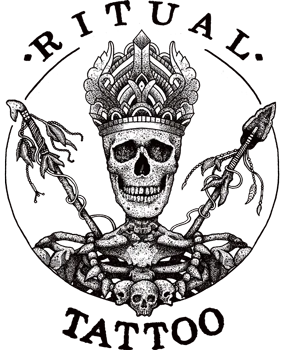
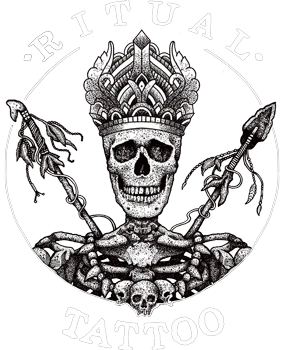
feat(hero): Ritual sticker text turns black as it crosses onto the white

diff --git a/src/components/HeroStickers.tsx b/src/components/HeroStickers.tsx
@@ -7,7 +7,8 @@ import { FILL, type Img } from "./cart";
 // position as % of the hero). wideOnly hides it on phones; lineArt swaps the
 // hard offset shadow, which doubles thin black lines, for a soft one. The
 // hero's bottom padding is a band reserved for the stickers pinned there (see
-// .c-hero).
+// .c-hero). onWhite is a second version of the art shown wherever the sticker
+// is below the pink/white seam, switching line by line as it crosses.
 export const STICKERS: {
   src: string;
   ratio: number;
@@ -17,9 +18,10 @@ export const STICKERS: {
   photo?: boolean;
   wideOnly?: boolean;
   lineArt?: boolean;
+  onWhite?: string;
 }[] = [
   { src: "/stickers/betty.webp", ratio: 271 / 231, width: "clamp(70px, 12vw, 130px)", pos: { left: "5%", top: "16%" }, rotate: -12 },
-  { src: "/stickers/ritual.webp", ratio: 282 / 350, width: "clamp(72px, 11vw, 135px)", pos: { right: "4%", top: "16%" }, rotate: 8, lineArt: true },
+  { src: "/stickers/ritual.webp", ratio: 282 / 350, width: "clamp(72px, 11vw, 135px)", pos: { right: "4%", top: "16%" }, rotate: 8, lineArt: true, onWhite: "/stickers/ritual-on-white.webp" },
   { src: "/stickers/devil-betty.webp", ratio: 860 / 783, width: "clamp(80px, 13vw, 150px)", pos: { right: "20%", bottom: "24px" }, rotate: 10 },
   { src: "/stickers/lips.webp", ratio: 1, width: "clamp(70px, 11vw, 130px)", pos: { left: "22%", bottom: "24px" }, rotate: -8 },
 ];
@@ -30,13 +32,40 @@ const drag = {
   dragTransition: { bounceStiffness: 300, bounceDamping: 20 },
 } as const;
 
-/** `imgs` holds the optimized image for each STICKERS entry, in order. */
-export default function HeroStickers({ imgs }: { imgs: Img[] }) {
+const IMG = { alt: "", sizes: "150px", loading: "lazy", decoding: "async", draggable: false, style: { ...FILL, pointerEvents: "none" } } as const;
+
+// Clips the art to the part of the sticker above the seam and the onWhite art
+// to the part below. The seam is horizontal on the page; the sticker is
+// rotated (and scaled while dragged) about its centre, so the cut is that line
+// mapped into the sticker's own box.
+function clipAtSeam(el: HTMLElement, rotate: number) {
+  const seamEl = document.querySelector(".c-logo-wrap");
+  const [top, bottom] = el.querySelectorAll("img");
+  if (!seamEl || !bottom) return;
+  const w = el.offsetWidth, h = el.offsetHeight, t = (rotate * Math.PI) / 180;
+  const r = el.getBoundingClientRect();
+  const scale = r.height / (w * Math.abs(Math.sin(t)) + h * Math.cos(t));
+  const s = seamEl.getBoundingClientRect();
+  const seam = (s.bottom - s.height * 0.28 - (r.top + r.height / 2)) / scale; // .c-logo-wrap::before ends 28% up
+  const at = (x: number) => h / 2 + (seam - (x - w / 2) * Math.sin(t)) / Math.cos(t);
+  const line = `0 ${at(0)}px, ${w}px ${at(w)}px`;
+  top.style.clipPath = `polygon(${line}, ${w}px -1e4px, 0 -1e4px)`;
+  bottom.style.clipPath = `polygon(${line}, ${w}px 1e4px, 0 1e4px)`;
+}
+
+/** `imgs` holds the optimized image (and onWhite image) for each STICKERS entry, in order. */
+export default function HeroStickers({ imgs }: { imgs: (Img & { onWhite?: Img })[] }) {
   // Stickers stay inside the hero, which is static markup around this island.
   const anchor = useRef<HTMLSpanElement>(null);
   const heroRef = useRef<HTMLElement | null>(null);
+  const seamed = useRef<Map<HTMLElement, number>>(new Map());
   useLayoutEffect(() => {
     heroRef.current = anchor.current?.closest(".c-hero") ?? null;
+    const update = () => seamed.current.forEach((rotate, el) => clipAtSeam(el, rotate));
+    update();
+    const ro = new ResizeObserver(update); // viewport and logo size both move the seam
+    ro.observe(heroRef.current!);
+    return () => ro.disconnect();
   }, []);
 
   return (
@@ -51,8 +80,13 @@ export default function HeroStickers({ imgs }: { imgs: Img[] }) {
           dragConstraints={heroRef}
           whileDrag={{ scale: 1.08 }}
           {...drag}
+          {...(imgs[i].onWhite && {
+            ref: (el: HTMLDivElement | null) => { if (el) seamed.current.set(el, s.rotate); },
+            onUpdate: () => seamed.current.forEach((rotate, el) => clipAtSeam(el, rotate)),
+          })}
         >
-          <img {...imgs[i]} alt="" sizes="150px" loading="lazy" decoding="async" draggable={false} style={{ ...FILL, pointerEvents: "none" }} />
+          <img {...imgs[i]} {...IMG} />
+          {imgs[i].onWhite && <img {...imgs[i].onWhite} {...IMG} />}
         </motion.div>
       ))}
     </>
